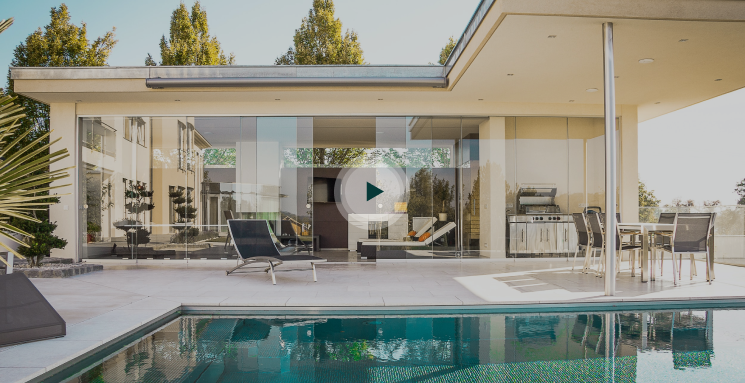
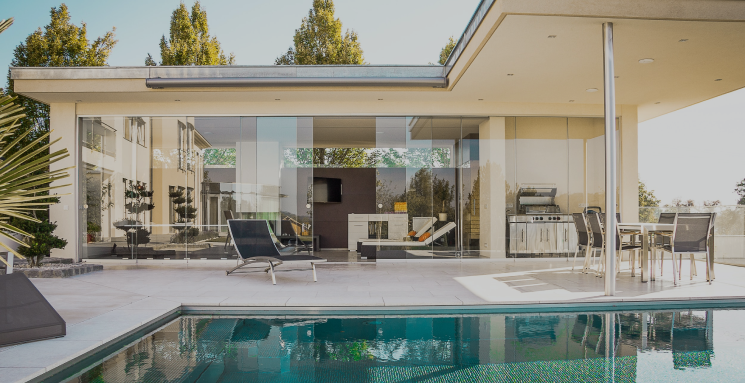
add commit

Changed region(s): [[0.4322, 0.4021, 0.5557, 0.6031]]

diff --git a/src/components/FindYour.jsx b/src/components/FindYour.jsx
@@ -6,14 +6,14 @@ import { Col, Container, Row } from 'react-bootstrap'
 
 function FindYour() {
     return (
-        <div className='hero_Bg'>
+        <div className='hero_Bg' id='down'>
             <Container>
                 <h3 className='pt-5 text-center text_green_50 fs_xxxxl fw-bold  ff_TimesNewRoman'>Find your second home with Mana</h3>
                 <p className='text-center text_green_50 ff_OpenSans fw-normal fs_lg mb-0'>We make it simple</p>
                 <Row className='py-5 justify-content-center'>
                     <Col className='my-3' xsm={12} md={6} lg={4} >
                         <div className='d-flex align-items-start card_hover p-3 h-100'>
-                            <img src={image1} alt="image1" />
+                            <img src={image1} width={33} height={33} alt="image1" />
                             <div className='ms-2'>
                                 <h5 className='ff_TimesNewRoman mb-0  text_green_50 fw-bold fs_xxl'>Shop</h5>
                                 <p className='fs_lg fw-normal mw_xl_302 text_green_50 mt-3 mb-0 ff_OpenSans'>Explore our collection of stunning single-family homes in top second home destinations. We'll help you find the perfect fit, and you decide how many shares you'd like to own.</p>
@@ -23,7 +23,7 @@ function FindYour() {
                     </Col>
                     <Col className='my-3' xsm={12} md={6} lg={4} >
                         <div className='d-flex align-items-start card_hover p-3 h-100'>
-                            <img src={image2} alt="image2" />
+                            <img src={image2} width={33} height={33} alt="image2" />
                             <div className='ms-2'>
                                 <h5 className='ff_TimesNewRoman mb-0  text_green_50 fw-bold fs_xxl'>Own</h5>
                                 <p className='fs_lg fw-normal mw_xl_302 text_green_50 mt-3 mb-0 ff_OpenSans'>We create a property LLC for each home, find and vet co-owners, and handle all the sales details. At closing, the co-owners enjoy 100% ownership of the home – Pacaso does not retain any shares</p>
@@ -33,7 +33,7 @@ function FindYour() {
                     </Col>
                     <Col className='my-3' xsm={12} md={6} lg={4} >
                         <div className='d-flex align-items-start card_hover p-3 h-100'>
-                            <img src={image3} alt="image" />
+                            <img src={image3} width={33} height={33} alt="image" />
                             <div className='ms-2'>
                                 <h5 className='ff_TimesNewRoman mb-0  text_green_50 fw-bold fs_xxl'>Enjoy</h5>
                                 <p className='fs_lg fw-normal mw_xl_319 text_green_50 mt-3 mb-0 ff_OpenSans'>We take care of furnishings, repairs, utilities and property management – you just show up and relax. Scheduling is easy and equitable with our app and SmartStay™ technology.</p>

diff --git a/src/components/HereSection.jsx b/src/components/HereSection.jsx
@@ -1,15 +1,17 @@
 import React from 'react'
 import downBtn from '../assets/img/svg/downBtn.svg'
+import playBtn from '../assets/img/svg/playBtn.svg'
 import { Container } from 'react-bootstrap'
 
 function HereSection() {
     return (
         <Container>
-            <div className='d-flex justify-content-center align-items-center flex-column vh_85'>
+            <div className='d-flex justify-content-center align-items-center flex-column vh_85 position-relative'>
+                <img className='position-absolute image_absolute d-none d-xl-block' src={playBtn} width={60} alt="playBtn" />
                 <h2 className='fs_xxxxxl ff_TimesNewRoman fw-bold text-white text-center'>The modern way to buy and own a second home</h2>
                 <a className='heroBtn mt-5 fw-bold fs_xl ff_OpenSans text-white' href="#">VIEW LISTINGS</a>
             </div>
-            <div className='d-flex justify-content-center pb-5 pb-xl-4 '><a href="#"><img src={downBtn} alt="downbtn" /></a></div>
+            <div className='d-flex justify-content-center pb-5 pb-xl-4 '><a href="#down"><img src={downBtn} width={50} alt="downbtn" /></a></div>
             <div className='pb-5 pb-xl-0'></div>
         </Container>
     )

diff --git a/src/components/Footer.jsx b/src/components/Footer.jsx
@@ -18,9 +18,9 @@ function Footer() {
                         <img src={logo} width={90} alt="logo" />
                         <h5 className='fs_sm fw-semibold mt-4 text-white ff_OpenSans '>SIGN UP FOR FULL ACCESS</h5>
                         <p className='fs_sm fw-normal mt-4 text-white ff_OpenSans'>Unlock exclusive features & receive updates</p>
-                        <div className='bg-white b_radius_31  mw_344 d-flex align-items-center mt-4'>
+                        <div className='bg-white b_radius_31 justify-content-between mw_344 d-flex align-items-center mt-4'>
                             <input type="email" placeholder='Email' className='border-0 outline_none py_20 ps-1 ps-sm-4 pe-4 b_radius_31 ff_OpenSans fs_sm fw-normal' />
-                            <div className='d-flex justify-content-end'><a className='footer_btn ff_OpenSans fs_sm fw-semibold text-white' href="#">UNLOCK</a></div>
+                            <div className='me-1'><a className='footer_btn ff_OpenSans fs_sm fw-semibold text-white' href="#">UNLOCK</a></div>
                         </div>
                     </Col>
                     <Col xsm={12} xl={6} className='my-3'>

diff --git a/src/components/DontMissout.jsx b/src/components/DontMissout.jsx
@@ -12,8 +12,7 @@ function DontMissout() {
                 <h2 className='pt-5 mt-4 fs_xxxxl fw-bold  text_green_50 ff_TimesNewRoman text-center '>Don't miss out</h2>
                 <p className='text-center fs_lg fw-normal text_green_50 ff_OpenSans mw_xl_501 mx-auto'>The best homes sell fast. See the latest listings, inspiring second homes and buying tips.</p>
                 <div className='mw_xl_501 mx-auto mt-5'>
-                    <input type="text" className='border-0 bg-transparent outline_none w-100' placeholder='ENTER  EMAIL' />
-                    <div className='border_bottom'></div>
+                    <input type="text" className='bg-transparent border_bottom outline_none w-100' placeholder='ENTER  EMAIL' />
                     <p className='mb-0 pt-4 fs_lg fw-normal text_green_50 ff_OpenSans'>Select one of the following:</p>
                     <div className='align-items-center mt-2 d-sm-flex justify-content-between'>
                         <div>

diff --git a/src/components/OwnThejoy.jsx b/src/components/OwnThejoy.jsx
@@ -1,6 +1,7 @@
 import React from 'react'
 import joyImage from '../assets/img/png/joyImage.png'
 import positionImage1 from '../assets/img/png/positionImage1.png'
+import playBtn from '../assets/img/svg/playBtn.svg'
 import { Container, Row, Col } from 'react-bootstrap'
 
 function OwnThejoy() {
@@ -10,7 +11,8 @@ function OwnThejoy() {
             <div className='hero_Bg mt-5'>
                 <Container>
                     <Row className='py-5 mt-xl-5 align-items-center'>
-                        <Col xsm={12} lg={6} className='my-3'>
+                        <Col xsm={12} lg={6} className='my-3 position-relative'>
+                            <img className='position-absolute center_image' width={60} src={playBtn} alt="playBtn" />
                             <img src={joyImage} className='w-100' alt="joyImage" />
                         </Col>
                         <Col xsm={12} lg={6} className='my-3 ps-xl-5'>

diff --git a/src/App.css b/src/App.css
@@ -126,6 +126,17 @@
   height: 85vh;
 }
 
+.center_image {
+  left: 50%;
+  top: 50%;
+  transform: translate(-50%, -50%);
+}
+
+.image_absolute {
+  bottom: 7%;
+  right: 7%;
+}
+
 .border_card {
   border: 1px solid #B7C6C5;
 }
@@ -191,9 +202,11 @@ td {
 }
 
 .border_bottom {
-  border-bottom: 1px;
-  border-style: solid;
-  border-color: #073937;
+  border-top: none;
+  border-left: none;
+  border-right: none;
+  border-bottom: 1px solid #073937;
+
 }
 
 /* hover */
